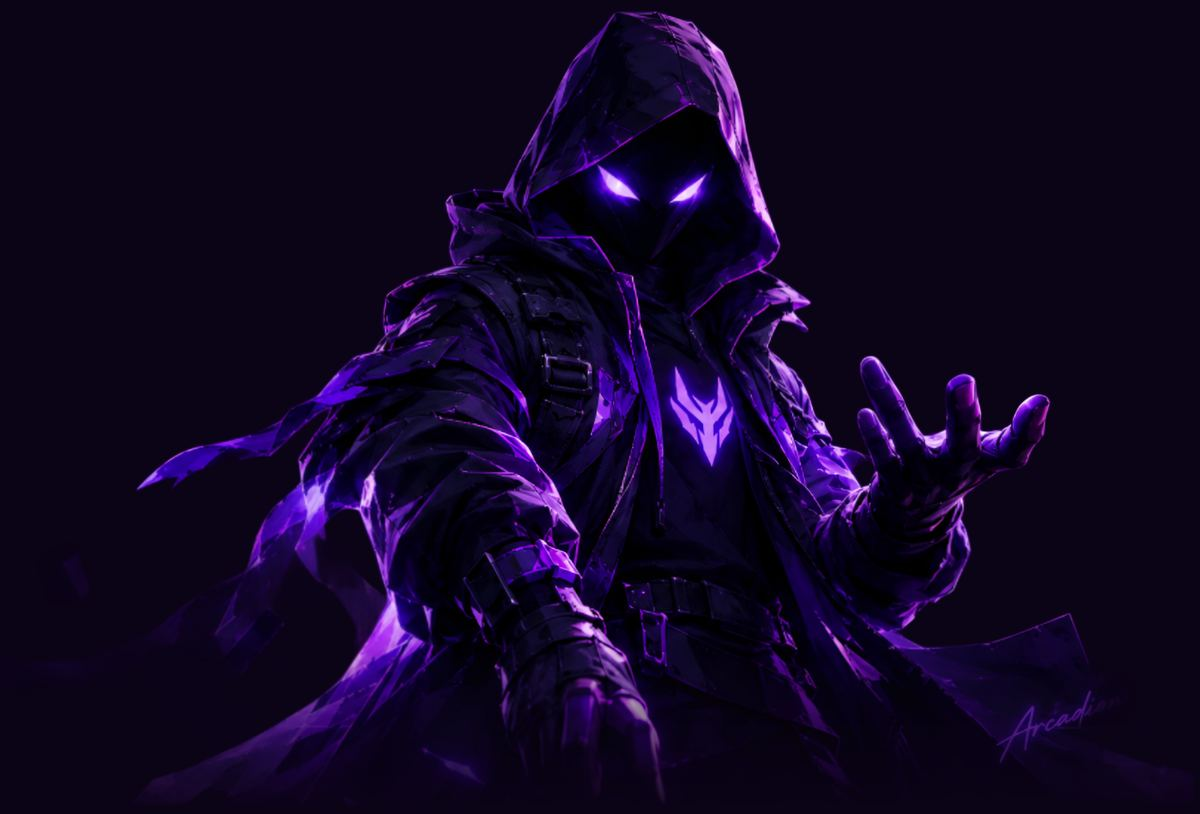
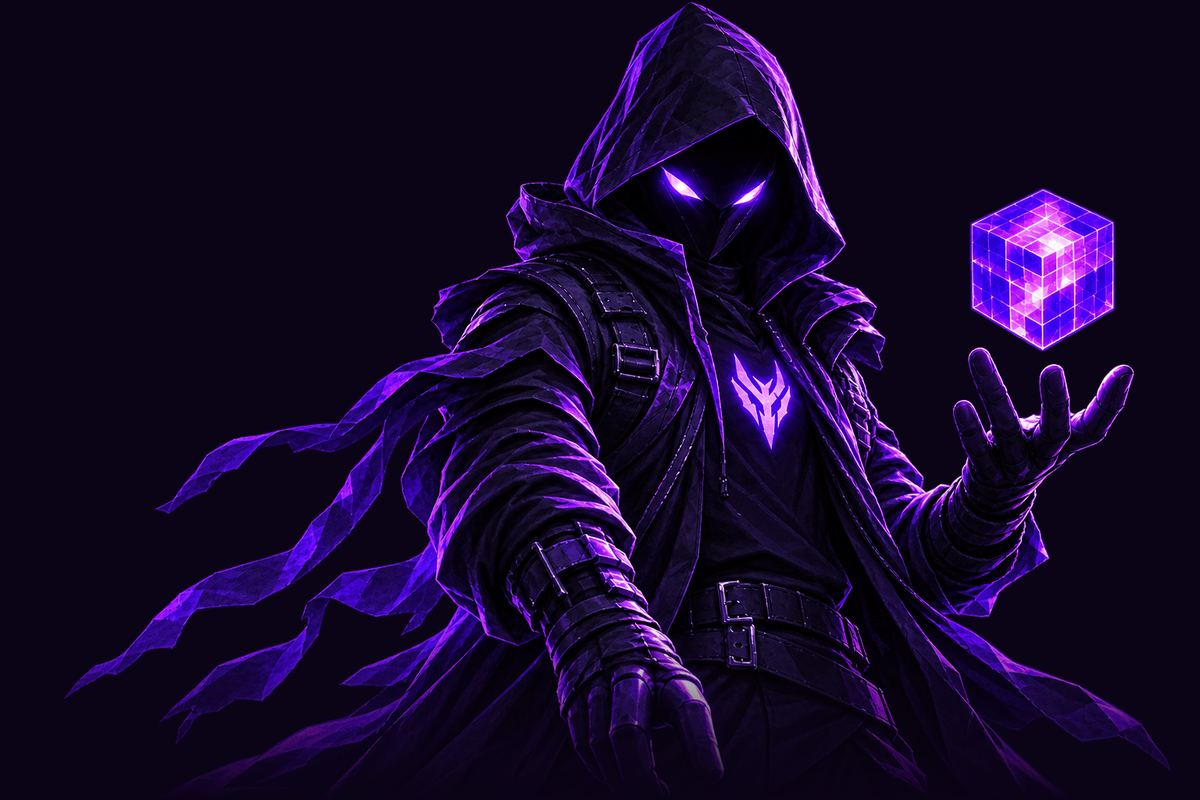
feat(email): new welcome hero art, drop the cube beside Enter Arcadia
- Welcome email hero is now the hooded Arcadion holding the cube
  (frontend/src/assets/ArcadionEmailHero.png, rebuilt to 1200x800).
- Remove the floating cube image and its animation styles from the
  call to action; delete cube.png.

Changed region(s): [[0.0617, 0.0, 0.9867, 0.9688], [0.74, 0.9375, 0.7708, 0.9688], [0.37, 0.9375, 0.4008, 0.9688]]

diff --git a/backend/services/emailTemplates/arcadiaLayout.js b/backend/services/emailTemplates/arcadiaLayout.js
@@ -10,8 +10,6 @@ const path = require('node:path');
  * client and make a message look like bulk mail. Without a public assetBaseUrl
  * the layout drops its artwork and draws the logo in CSS, so it never shows
  * broken images. Every enhancement degrades to a layout that still reads correctly:
- *   - the cube floats only where CSS animation is supported (Apple Mail, iOS);
- *     elsewhere it simply sits beside the call to action;
  *   - the heading glow is text-shadow, ignored where unsupported;
  *   - the colour scheme is pinned dark so clients do not invert the artwork.
  *
@@ -26,9 +24,8 @@ const ASSET_DIRECTORY = path.join(__dirname, '..', '..', 'assets', 'email');
 // that blocks images still reserves the right space.
 const EMAIL_IMAGES = Object.freeze({
   logo: { filename: 'logo.png' },
-  heroWelcome: { filename: 'hero-welcome.jpg', heroHeight: 407 },
+  heroWelcome: { filename: 'hero-welcome.jpg', heroHeight: 400 },
   heroWelcomeBack: { filename: 'hero-welcome-back.jpg', heroHeight: 338 },
-  cube: { filename: 'cube.png' },
   crest: { filename: 'crest.png' },
 });
 
@@ -55,14 +52,10 @@ function imageSource(assetBaseUrl, key) {
 }
 
 const HEAD_STYLES = `
-  @keyframes arcadiaFloat { 0%, 100% { transform: translateY(0) rotate(-4deg); } 50% { transform: translateY(-10px) rotate(4deg); } }
-  .arcadia-float { animation: arcadiaFloat 4.5s ease-in-out infinite; }
-  @media (prefers-reduced-motion: reduce) { .arcadia-float { animation: none !important; } }
   @media only screen and (max-width: 620px) {
     .arcadia-pad { padding-left: 20px !important; padding-right: 20px !important; }
     .arcadia-title { font-size: 28px !important; letter-spacing: 2px !important; }
     .arcadia-feature { display: block !important; width: 100% !important; padding: 0 0 10px !important; }
-    .arcadia-cube { width: 56px !important; height: auto !important; }
     .arcadia-cta-link { padding: 14px 18px !important; font-size: 13px !important; letter-spacing: 1px !important; }
     .arcadia-hide-mobile { display: none !important; }
   }`;
@@ -108,13 +101,10 @@ function renderLogo(assetBaseUrl) {
   </tr></table>`;
 }
 
-function renderCallToAction({ label, url }, assetBaseUrl) {
+function renderCallToAction({ label, url }) {
   return `<table role="presentation" width="100%" cellspacing="0" cellpadding="0" style="margin:8px 0 28px"><tr>
     <td align="center">
       <table role="presentation" cellspacing="0" cellpadding="0"><tr>
-        ${assetBaseUrl ? `<td valign="middle" style="padding-right:14px">
-          <img class="arcadia-float arcadia-cube" src="${imageSource(assetBaseUrl, 'cube')}" width="80" height="87" alt="" style="display:block;width:80px;height:auto;border:0">
-        </td>` : ''}
         <td valign="middle" bgcolor="#a93cff" style="border-radius:12px;background:#a93cff;background-image:linear-gradient(135deg,#e03cff 0%,#8b3bff 100%);box-shadow:0 8px 24px rgba(180,76,255,0.45)">
           <a class="arcadia-cta-link" href="${url}" style="display:inline-block;white-space:nowrap;padding:16px 28px;font-family:${DISPLAY_FONT_STACK};font-size:14px;font-weight:700;letter-spacing:2px;color:#ffffff;text-decoration:none;border-radius:12px">${label}</a>
         </td>
@@ -191,7 +181,7 @@ function renderArcadiaEmail({
       ${contentHtml || ''}
       ${renderFeatures(features)}
       ${renderHighlight(highlight)}
-      ${cta ? renderCallToAction(cta, assetBaseUrl) : ''}
+      ${cta ? renderCallToAction(cta) : ''}
       ${signoff ? renderParagraphs(signoff) : ''}
       <p style="margin:4px 0 24px;font-family:${DISPLAY_FONT_STACK};font-size:12px;font-weight:700;letter-spacing:4px;color:#ff5fe0">PLAY. CHALLENGE. REPEAT.</p>
     </td></tr>

diff --git a/backend/test/userModel.integration.test.js b/backend/test/userModel.integration.test.js
@@ -7185,7 +7185,7 @@ test('welcome emails link their artwork from EMAIL_ASSET_BASE_URL and escape the
     const [welcome] = getEmailsWithSubject(WELCOME_SUBJECT);
     assertLinkedImagesResolve(welcome);
     assert.ok(welcome.html.includes(`${TEST_ASSET_BASE_URL}/${EMAIL_IMAGES.heroWelcome.filename}`), 'the floating character is the hero');
-    assert.ok(welcome.html.includes(`${TEST_ASSET_BASE_URL}/${EMAIL_IMAGES.cube.filename}`), 'the floating cube sits by the call to action');
+    assert.ok(!welcome.html.includes('cube.png'), 'no cube sits beside the call to action');
     assert.ok(welcome.html.includes('#0b0316'), 'the Arcadia background colour is used');
     assert.ok(!welcome.html.includes('fonts.googleapis.com'), 'no external stylesheet is requested');
     assert.ok(welcome.html.includes('Ada &quot;Ace&quot; &amp; O&#039;Neil'), 'the display name is escaped');

diff --git a/backend/services/emailTemplates/welcomeEmails.js b/backend/services/emailTemplates/welcomeEmails.js
@@ -44,7 +44,7 @@ function buildWelcomeEmail({ displayName, link, supportEmail, assetBaseUrl = nul
     eyebrow: 'WELCOME TO ARCADIA',
     title: 'YOUR JOURNEY STARTS NOW',
     hero: 'heroWelcome',
-    heroAlt: 'The Arcadion, a hooded figure wreathed in violet light, reaching out',
+    heroAlt: 'The Arcadion, a hooded figure reaching out beside a glowing violet cube',
     paragraphs: [
       `Hey ${safeName},`,
       'Your account is officially ready, and your journey starts now.',

diff --git a/backend/scripts/build-email-assets.py b/backend/scripts/build-email-assets.py
@@ -73,8 +73,8 @@ def build():
     logo = logo.crop(logo.getchannel("A").getbbox())
     written.append(save_png(logo.resize((96, 96), Image.LANCZOS), "logo.png"))
 
-    # Welcome hero: the floating, reaching character from the landing hero.
-    hero = flatten(load("ArcadionFull.png")).crop((560, 0, 3960, 2305))
+    # Welcome hero: the hooded character reaching out, holding the cube.
+    hero = flatten(load("ArcadionEmailHero.png"))
     hero = fade_bottom(resize_to_width(hero, 1200), 0.22)
     written.append(save_jpeg(hero, "hero-welcome.jpg"))
 
@@ -82,11 +82,6 @@ def build():
     rest = flatten(load("ArcadionCTA.png"))
     rest = fade_bottom(resize_to_width(rest, 1200), 0.18)
     written.append(save_jpeg(rest, "hero-welcome-back.jpg"))
-
-    # Floating cube beside the call to action; keeps its transparency.
-    cube = load("Arcadioncube.png")
-    cube = cube.crop(cube.getchannel("A").getbbox())
-    written.append(save_png(resize_to_width(cube, 176), "cube.png"))
 
     # Footer emblem: the Arcadion crest.
     crest = load("Arcadianlogo.png")
